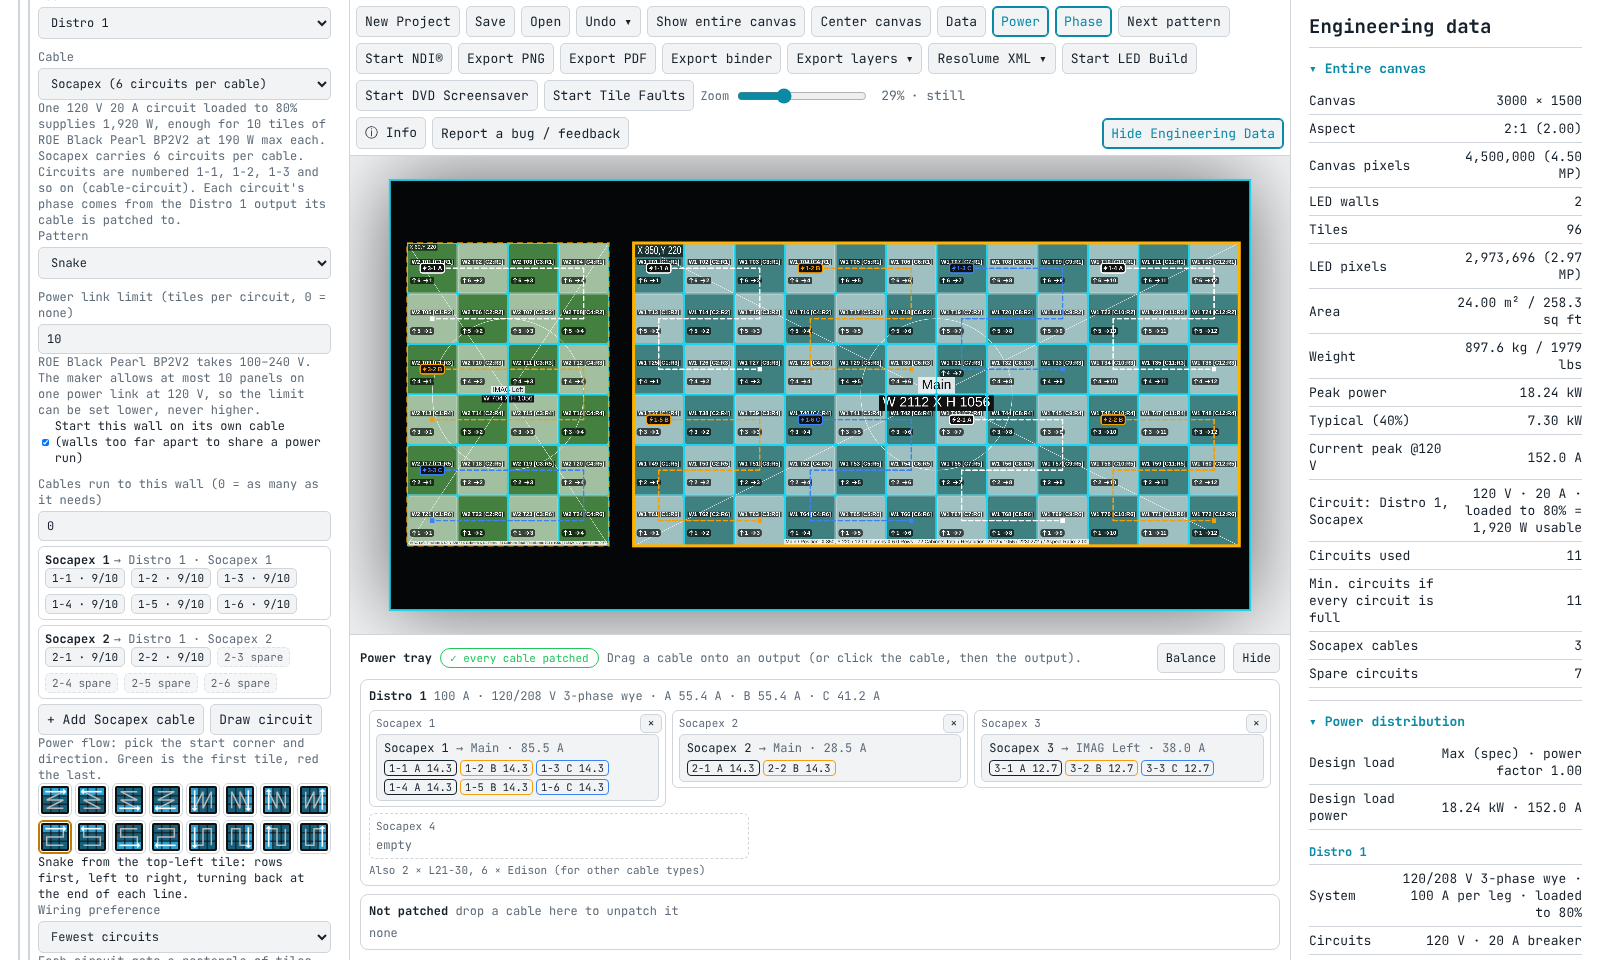
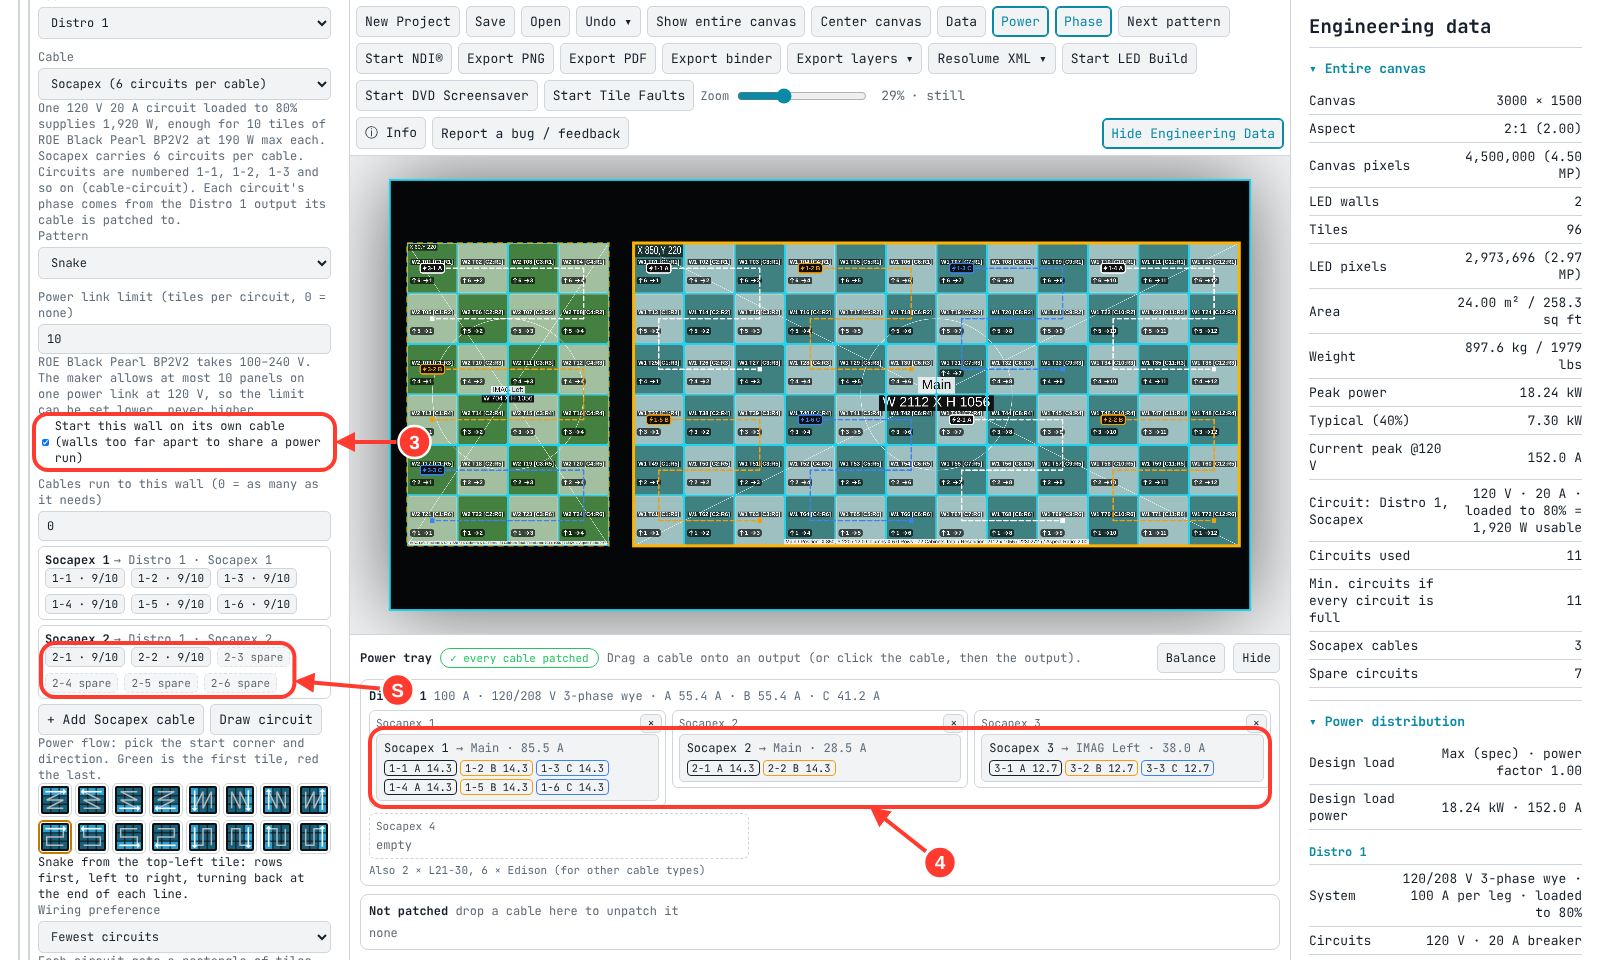
Circles and arrows on the instruction screenshots (power cable per wall) in the manual and README (#50)
manual-src/annotate.py draws numbered badges, boxes and arrows over the app before a screenshot.

Claude-Session: https://claude.ai/code/session_01RrKeqjqd6qughpq677vMqd

diff --git a/manual-src/make_manual.py b/manual-src/make_manual.py
@@ -4,6 +4,8 @@
 # Run: python3 make_manual.py   (fails if a pattern, fit mode or video format has no description here)
 import asyncio, json, html, pathlib, datetime, base64, os
 from playwright.async_api import async_playwright
+import sys; sys.path.insert(0, os.path.dirname(os.path.abspath(__file__)))
+from annotate import annotate, ANNOT_CLEAR
 
 HERE = pathlib.Path(__file__).resolve().parent
 ROOT = pathlib.Path(os.environ.get('TILESMITH_ROOT', HERE.parent / 'tilesmith-desktop'))   # the app folder (next to manual-src)
@@ -158,9 +160,16 @@ async def shots_and_data():
            document.querySelectorAll('#left details.subd').forEach(x=>{if(!x.contains(d)&&!d.contains(x)&&!x.contains(d))x.open=false});for(let e=d;e;e=e.parentElement&&e.parentElement.closest('details'))e.open=true;
            const a=d.querySelector('[data-k=pmode]').closest('label,div'),z=document.querySelector('#pcabCards'),L=document.querySelector('#left');
            L.scrollTop+=a.getBoundingClientRect().top-L.getBoundingClientRect().top-30;const A=a.getBoundingClientRect(),Z=z.getBoundingClientRect(),R=L.getBoundingClientRect();
-           return {x:R.left,y:A.top-30,width:R.width,height:Math.min(Z.bottom+60,R.bottom)-(A.top-30)}}"""); await pg.wait_for_timeout(300)
-        await shot('sec_pown', rc)
-        await shot('ptray', el='#ptray'); crop('ptray', 420)
+           return {x:R.left,y:A.top-30,width:R.width+70,height:Math.min(Z.bottom+60,R.bottom)-(A.top-30)}}"""); await pg.wait_for_timeout(300)
+        # circles and arrows on the controls the steps name (numbers match the steps in the text)
+        await annotate(pg, [{'sel': 'label:has([data-k=pown])', 'n': 3, 'side': 'right', 'gap': 34, 'pad': 4},
+                            {'sel': '#pcabCards .pchip.sp', 'all': True, 'n': 'S', 'side': 'right', 'gap': 34, 'pad': 4},
+                            {'sel': '[data-pcx=draw]', 'n': 'D', 'side': 'right', 'gap': 34, 'pad': 4}])
+        await shot('sec_pown', rc); await ev(ANNOT_CLEAR)
+        await ev("()=>document.querySelector('#ptray').scrollIntoView({block:'center'})"); await pg.wait_for_timeout(200)
+        await annotate(pg, [{'sel': '#ptray .ptchip', 'all': True, 'n': 4, 'dx': 0, 'dy': 70, 'pad': 6}])
+        tr = await ev("()=>{const r=document.querySelector('#ptray').getBoundingClientRect();return {x:r.left,y:r.top,width:r.width,height:Math.min(r.height,420)}}")
+        await shot('ptray', tr); await ev(ANNOT_CLEAR)
         await ev("()=>{selWall(1);delWall();selWall(0)}")
         await ev("()=>{S.pmode='None';S.dists=[];S.ids=true;storeWall();sync()}")
         # branded pattern with centre box text
@@ -414,11 +423,11 @@ table.small{{font-size:8.4pt}} tr{{break-inside:avoid}} code{{font-family:'DejaV
 <p><b>Two walls on two Socapex cables, step by step:</b></p>
 <ol><li>Open <span class="key">Engineering › Power</span> and click <b>+ Add distro</b> (or <b>+ Add house power</b>). Supply, Load and This wall only appear once there is a supply.</li>
 <li>Select the first wall in <span class="key">Canvases › LED walls</span>, open <span class="key">Power › This wall</span> and pick a <b>Pattern</b> (or draw circuits by hand, below).</li>
-<li>Make sure <b>Start this wall on its own cable (walls too far apart to share a power run)</b> is ticked. It sits under Power link limit; scroll the left panel down if you do not see it. New walls have it ticked.</li>
-<li>Select the second wall and do the same. The power tray now shows <i>Socapex 1 → Main</i> and <i>Socapex 2 → Side</i>, each patched to its own distro output.</li></ol>
-{img('sec_pown', 'This wall with Start this wall on its own cable ticked, the wall’s cable card with its circuit chips, + Add Socapex cable and Draw circuit.', '60%')}
-{img('ptray', 'The power tray: Socapex 1 runs to Main, Socapex 2 to Side.', '90%')}
-<p><b>Spare legs.</b> A wall uses only the circuits it needs; the rest of its cable stays spare (dashed <i>spare</i> chips on the cable card, and <i>Spare circuits</i> in Engineering). To leave more legs free on purpose, keep <b>Power link limit</b> at 0 or the maker’s count (a lower limit spreads the tiles over more legs), raise <b>Cables run to this wall</b> to run an extra, empty cable, or draw the circuits yourself with <b>Draw circuit</b> and leave the chips you want spare unused. There is no setting yet that reserves a number of legs on every cable.</p>
+<li>Make sure <b>Start this wall on its own cable (walls too far apart to share a power run)</b> is ticked (3 in the picture below). It sits under Power link limit; scroll the left panel down if you do not see it. New walls have it ticked.</li>
+<li>Select the second wall and do the same. The power tray now shows <i>Socapex 1 → Main</i> and <i>Socapex 2 → Side</i>, each patched to its own distro output (4).</li></ol>
+{img('sec_pown', 'This wall: (3) Start this wall on its own cable, ticked; (S) the spare circuits on the wall’s cable card; (D) Draw circuit.', '60%')}
+{img('ptray', 'The power tray: (4) Socapex 1 runs to Main, Socapex 2 to Side.', '90%')}
+<p><b>Spare legs.</b> A wall uses only the circuits it needs; the rest of its cable stays spare (dashed <i>spare</i> chips on the cable card, S in the picture, and <i>Spare circuits</i> in Engineering). To leave more legs free on purpose, keep <b>Power link limit</b> at 0 or the maker’s count (a lower limit spreads the tiles over more legs), raise <b>Cables run to this wall</b> to run an extra, empty cable, or draw the circuits yourself with <b>Draw circuit</b> (D) and leave the chips you want spare unused. There is no setting yet that reserves a number of legs on every cable.</p>
 <p>Each LED wall starts on its own cable, so two walls too far apart to share a power run never end up on the same Socapex; the circuits a wall does not use are spare. Untick <b>Start this wall on its own cable</b> to carry on from the wall before. Each cable of the wall is a card with a chip per circuit, showing its tiles against the circuit's limit and the distro output it is patched to. <b>+ Add Socapex cable</b> runs one more cable to the wall (the × on an empty last cable takes it away again); it gets a distro output even before it carries a circuit. <b>Cables run to this wall</b> holds the same number (0 = as many as it needs); circuits past them are shown as over capacity. <b>Draw circuit</b> starts a new circuit and lets you click or drag across tiles in the viewport; click a chip to draw onto that circuit instead, or a dashed <i>spare</i> chip to start the next one. If the wall had an automatic pattern, its circuits are kept as Manual circuits. A full circuit refuses the next tile.</p>
 <h3>Maker power limits</h3><p>TileSmith knows the input voltage and the panels allowed on one power link for most tile models, from each maker's own spec sheets and manuals (shown as <i>Power source</i> in Engineering). Circuit voltages a tile model is not made for are greyed out, and the <b>Power link limit</b> is set to the maker's count for the circuit voltage: you can set it lower, never higher. Where a maker gives only a loop-through current, the limit is that current × the voltage ÷ the tile's max watts.</p>
 <h3>Shared circuits (2fer / 3fer)</h3><p>Under <b>This wall › Shared circuits</b>, pick two or three runs and click <b>Share one circuit</b> to feed them from one circuit through a 2fer or 3fer. They take one circuit number and the labels read <i>1-3a</i>, <i>1-3b</i>. TileSmith refuses a share that draws more than one circuit supplies, except with Manual wiring, where it is allowed and shown as over capacity.</p>

diff --git a/manual-src/annotate.py b/manual-src/annotate.py
@@ -1,0 +1,42 @@
+# Circles (rounded boxes) and arrows for instruction screenshots (README and manual).
+# Call  await annotate(pg, items)  right before the screenshot.
+# Each item: {"sel": css selector} or {"text": start of the element's text} (optionally "within": css selector to search in),
+# "n": the step number shown in the badge, "dx"/"dy": where the badge sits relative to the circle (pixels),
+# "pad": extra space around the element, "all": true to circle every match of "sel" together,
+# "side": "right"/"left" puts the badge just outside the box on that side ("gap" pixels away). The overlay is removed again with  await pg.evaluate(ANNOT_CLEAR).
+ANNOT = r"""(items)=>{
+ document.getElementById('tsAnnot')?.remove();
+ const NS='http://www.w3.org/2000/svg',W=innerWidth,H=innerHeight;
+ const svg=document.createElementNS(NS,'svg');svg.id='tsAnnot';svg.setAttribute('width',W);svg.setAttribute('height',H);
+ svg.style.cssText='position:fixed;left:0;top:0;z-index:2147483647;pointer-events:none';
+ const mk=(t,a)=>{const e=document.createElementNS(NS,t);for(const k in a)e.setAttribute(k,a[k]);svg.appendChild(e);return e};
+ const defs=mk('defs',{});const m=document.createElementNS(NS,'marker');
+ for(const [k,v] of Object.entries({id:'tsArr',viewBox:'0 0 10 10',refX:'8',refY:'5',markerWidth:'5',markerHeight:'5',orient:'auto-start-reverse'}))m.setAttribute(k,v);
+ const p=document.createElementNS(NS,'path');p.setAttribute('d','M0,0 L10,5 L0,10 z');p.setAttribute('fill','#ff3b30');m.appendChild(p);defs.appendChild(m);
+ const vis=e=>{const r=e.getBoundingClientRect();return r.width>0&&r.height>0&&getComputedStyle(e).visibility!='hidden'};
+ const find=it=>{const root=it.within?document.querySelector(it.within):document;if(!root)return null;
+  if(it.sel){const a=[...root.querySelectorAll(it.sel)].filter(vis);if(!a.length)return null;if(!it.all)return a[0];
+   const R=a.map(e=>e.getBoundingClientRect()),l=Math.min(...R.map(r=>r.left)),t=Math.min(...R.map(r=>r.top));
+   return {getBoundingClientRect:()=>({left:l,top:t,width:Math.max(...R.map(r=>r.right))-l,height:Math.max(...R.map(r=>r.bottom))-t})}}
+  const c=[...root.querySelectorAll('*')].filter(e=>vis(e)&&(e.textContent||'').trim().startsWith(it.text));
+  return c.find(e=>![...e.children].some(k=>c.includes(k)))||null};
+ const miss=[];
+ for(const it of items){const e=find(it);if(!e){miss.push(it.text||it.sel);continue}
+  const r=e.getBoundingClientRect(),pd=it.pad??8,cx=r.left+r.width/2,cy=r.top+r.height/2,rx=r.width/2+pd,ry=r.height/2+pd;
+  mk('rect',{x:cx-rx,y:cy-ry,width:2*rx,height:2*ry,rx:Math.min(14,ry),fill:'none',stroke:'#ff3b30','stroke-width':4});
+  if(it.n==null)continue;
+  const ox=it.side=='right'?rx+(it.gap??42):it.side=='left'?-(rx+(it.gap??42)):(it.dx??-(rx+60));
+  const bx=Math.max(18,Math.min(W-18,cx+ox)),by=Math.max(18,Math.min(H-18,cy+(it.dy??0)));
+  const ang=Math.atan2(cy-by,cx-bx),c=Math.abs(Math.cos(ang)),sn=Math.abs(Math.sin(ang)),k=Math.min(c?rx/c:1e9,sn?ry/sn:1e9)+4,ex=cx-Math.cos(ang)*k,ey=cy-Math.sin(ang)*k;
+  const sx=bx+Math.cos(ang)*18,sy=by+Math.sin(ang)*18;
+  if(Math.hypot(ex-sx,ey-sy)>8)mk('line',{x1:sx,y1:sy,x2:ex,y2:ey,stroke:'#ff3b30','stroke-width':4,'marker-end':'url(#tsArr)'});
+  mk('circle',{cx:bx,cy:by,r:16,fill:'#ff3b30',stroke:'#fff','stroke-width':2.5});
+  const t=mk('text',{x:bx,y:by+6.5,'text-anchor':'middle','font-family':'Arial,Helvetica,sans-serif','font-size':19,'font-weight':'bold',fill:'#fff'});t.textContent=String(it.n)}
+ document.body.appendChild(svg);return miss}"""
+ANNOT_CLEAR = "()=>document.getElementById('tsAnnot')?.remove()"
+
+
+async def annotate(pg, items):
+    """Draw the circles and arrows; fail loudly if a target is missing so a renamed control is noticed."""
+    miss = await pg.evaluate(ANNOT, items)
+    assert not miss, f'annotation targets not found: {miss}'

diff --git a/manual-src/make_readme_features.py b/manual-src/make_readme_features.py
@@ -6,6 +6,8 @@
 # to someone on the release before it. Without it the shots use the version in index.html.
 import asyncio, json, re, sys, os
 from playwright.async_api import async_playwright
+sys.path.insert(0, os.path.dirname(os.path.abspath(__file__)))
+from annotate import annotate
 APP = os.path.abspath(sys.argv[1] if len(sys.argv) > 1 else '../tilesmith-desktop/app/index.html')
 OUT = os.path.abspath(sys.argv[2] if len(sys.argv) > 2 else 'readme-shots')
 os.makedirs(OUT, exist_ok=True)
@@ -32,13 +34,14 @@ BASE = """()=>{S.cw=3000;S.ch=1500;S.preset='ROE Black Pearl BP2V2';applyPreset(
  S.proc='NovaStar VX1000 Pro';applySpec();walls.forEach(w=>{w.wmode='Snake';w.pmode='Snake'});S.wmode='Snake';S.pmode='Snake';S.showData=true;storeWall();
  selWall(0);showAll();sync();fit()}"""
 
-async def shot(pg, name, setup, open_names, scroll=None, wait=1200, eng=None):
+async def shot(pg, name, setup, open_names, scroll=None, wait=1200, eng=None, annot=None):
     await pg.evaluate(setup)
     if open_names is not None: await pg.evaluate(OPEN, open_names)
     if scroll: await pg.evaluate(SCROLL, scroll)
     await pg.evaluate("()=>{sync();fit()}")
     await pg.wait_for_timeout(wait)
     if eng: await pg.evaluate("(q)=>{const e=document.querySelector(q);if(e)e.scrollIntoView({block:'start'})}", eng); await pg.wait_for_timeout(300)
+    if annot: await annotate(pg, annot)  # circles and arrows on the controls the README's steps name
     await pg.screenshot(path=os.path.join(OUT, name + '.png'))
     print('wrote', name + '.png')
 
@@ -56,7 +59,10 @@ async def main():
         await pg.close(); pg = await fresh()
         # two walls, each on its own Socapex cable: This wall (Start this wall on its own cable) and the power tray
         await shot(pg, 'power-per-wall', """()=>{S.showPow=true;S.showData=false;S.proc='None';walls.forEach(w=>{w.wmode='None'});S.wmode='None';distAct('dadd');storeWall();selWall(0);sync();
-          setTimeout(()=>{const k=document.querySelector('#pcabSet');if(k)k.scrollIntoView({block:'center'})},300)}""", ['Power', 'This wall'], None, 1500)
+          setTimeout(()=>{const k=document.querySelector('#pcabSet');if(k)k.scrollIntoView({block:'center'})},300)}""", ['Power', 'This wall'], None, 1500,
+                   annot=[{'sel': 'label:has([data-k=pown])', 'n': 3, 'dx': 230, 'dy': 0, 'pad': 4},
+                          {'sel': '#pcabCards .pchip.sp', 'all': True, 'n': 'S', 'dx': 230, 'dy': -45, 'pad': 4},
+                          {'sel': '#ptray .ptchip', 'all': True, 'n': 4, 'dx': 120, 'dy': 95, 'pad': 6}])
         await pg.close(); pg = await fresh()
         await shot(pg, 'cable-fibre', """()=>{S.cabOn=true;S.cunit='m';S.cslack=10;selWall(0);S.cdD=140;S.cdP=20;S.wfib='Auto';storeWall();selWall(1);S.cdD=30;S.cdP=15;storeWall();selWall(0);sync()}""",
                    ['Cable lengths'], 'Cable lengths')

diff --git a/README.md b/README.md
@@ -52,16 +52,16 @@ https://github.com/user-attachments/assets/3fe2f407-80e1-4f42-a2f5-a2593f6d69d9
 
 ## How to: give each LED wall its own Socapex cable
 
-Walls that are too far apart to share a power run each get their own cable. In this screenshot, Main uses Socapex 1 and 2, IMAG Left uses Socapex 3, and the legs a wall does not need show as dashed *spare* chips.
+Walls that are too far apart to share a power run each get their own cable. In this screenshot, Main uses Socapex 1 and 2, IMAG Left uses Socapex 3, and the legs a wall does not need show as dashed *spare* chips. The numbers match the steps below.
 
 <img src="docs/screenshots/features/power-per-wall.png" alt="Each LED wall on its own Socapex cable: This wall panel and the power tray">
 
 1. Open **Engineering › Power** and click **+ Add distro** (or **+ Add house power**). Supply, Load and This wall only appear once there is a supply.
 2. Select a wall in **Canvases › LED walls**, open **Power › This wall** and pick a **Pattern**, or draw circuits by hand with **Draw circuit**.
-3. Make sure **Start this wall on its own cable (walls too far apart to share a power run)** is ticked. It sits under Power link limit, so you may need to scroll the left panel down to see it. New walls have it ticked.
-4. Select the next wall and do the same. The power tray under the viewport shows each cable, the wall it runs to and the distro output it is patched to.
+3. Make sure **Start this wall on its own cable (walls too far apart to share a power run)** is ticked (**3** in the screenshot). It sits under Power link limit, so you may need to scroll the left panel down to see it. New walls have it ticked.
+4. Select the next wall and do the same. The power tray under the viewport shows each cable, the wall it runs to and the distro output it is patched to (**4**).
 
-**Spare legs.** A wall uses only the circuits it needs, and the rest of its cable stays spare. To leave more legs free, keep **Power link limit** at 0 or the maker's count (a lower limit spreads the tiles over more legs). You can also raise **Cables run to this wall** to run an extra, empty cable, or draw the circuits yourself and leave the chips you want spare unused. There is no setting yet that reserves a number of legs on every cable.
+**Spare legs.** A wall uses only the circuits it needs, and the rest of its cable stays spare (**S**). To leave more legs free, keep **Power link limit** at 0 or the maker's count (a lower limit spreads the tiles over more legs). You can also raise **Cables run to this wall** to run an extra, empty cable, or draw the circuits yourself and leave the chips you want spare unused. There is no setting yet that reserves a number of legs on every cable.
 
 ## What's new in 3.7 and 3.8
 
